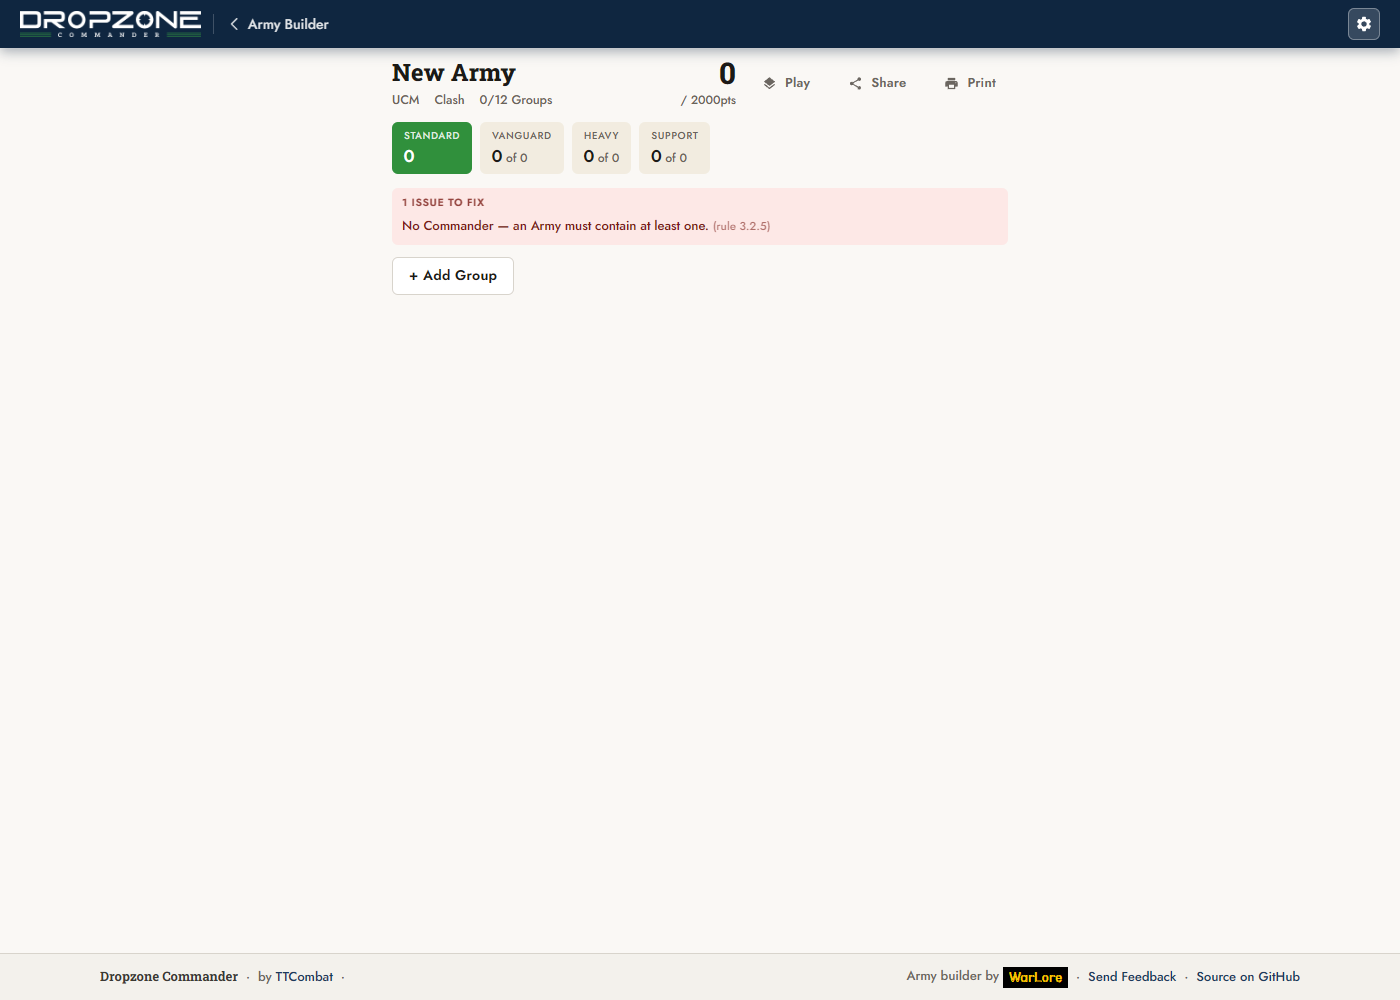
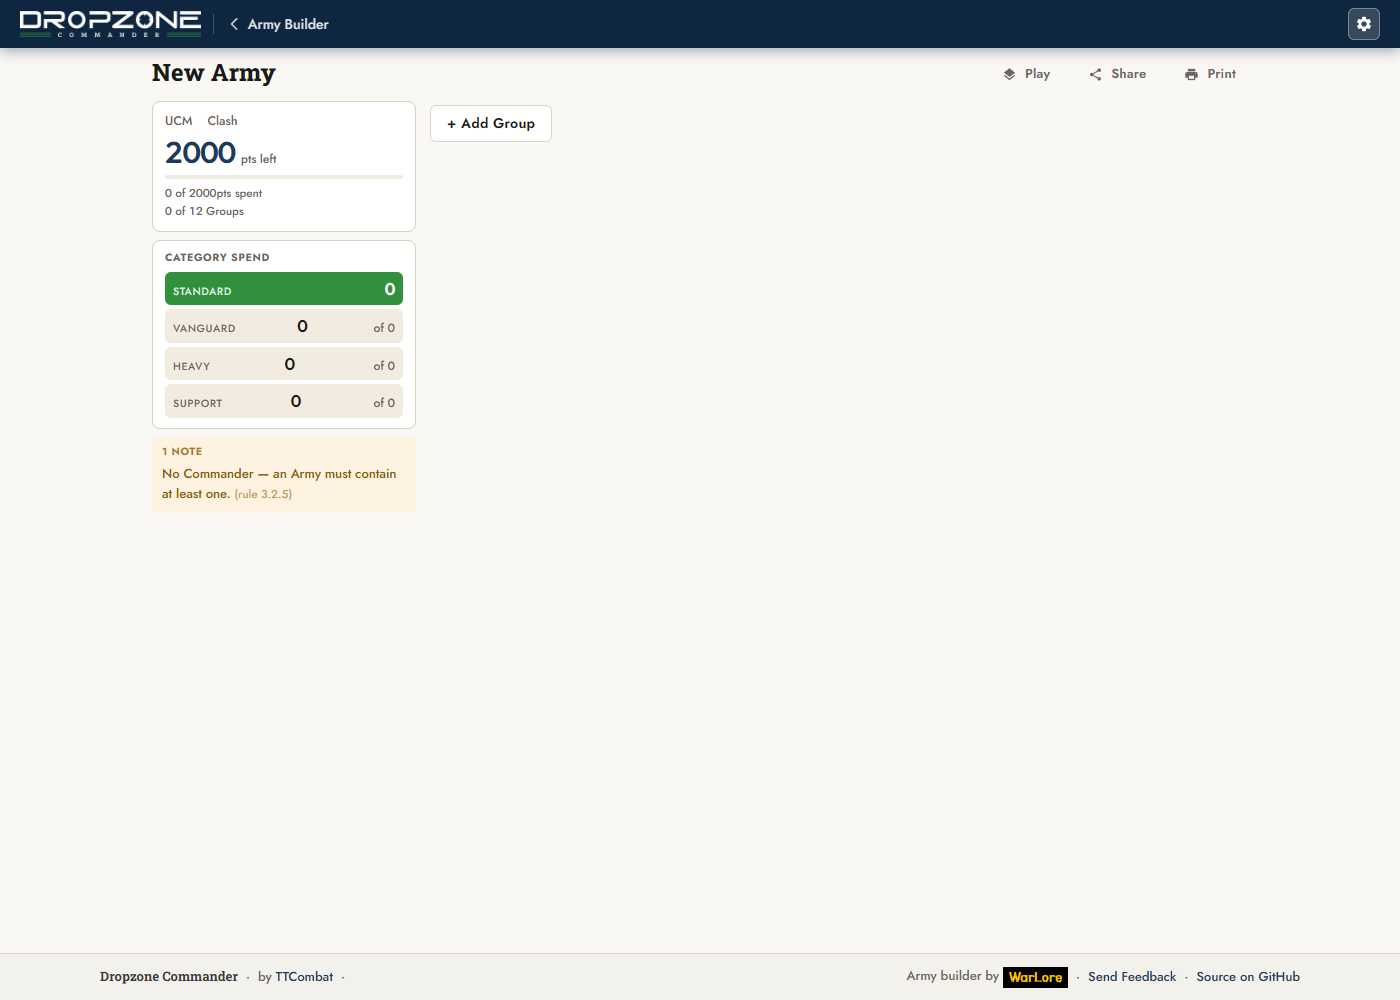
Put points and outstanding work in a left rail, and stop nagging
Desktop keeps panes (HANDOFF section 2.2) and this is the first of them. The
rail carries what you need while working -- how much you have left to spend,
the Group count, the category ratios, and what is outstanding -- so it stays
put instead of shoving the Groups down the page every time an alert appears or
clears. Dropfleet's own markup says the same thing at index.html:195: alerts
live on the rail so they are visible without scrolling the middle panel.

Points now read as what is LEFT, because that is the number you are working
against while adding Squads. What you have spent is the smaller line beneath.

And an army you are halfway through building is not a broken army. Some rules
are about what you HAVE built -- a Group over the quarter cap, a Rare taken
three times, a Transport that is not full -- and those are wrong the moment
they happen. Others are about what the FINISHED list must contain. "No
Commander" fired on your first Squad, before you had any chance to satisfy it
and with nothing actually wrong. It now sits in the notes while you can still
fix it by adding something, and becomes an issue only once the points are gone
and fixing it means taking something out. Legality is unchanged: the army is
still not announced as legal, the message just stops shouting.

Below 900px the rail stacks above the list, because mobile does not get panes.

The builder was capped at 640px, which was right for one column and squeezed a
Squad row into 340px next to a rail.

diff --git a/js/dzc-builder.js b/js/dzc-builder.js
@@ -194,7 +194,7 @@
     const size = window.DZC.gameSizeFor(a.pointsLimit);
     const maxG = size ? window.DZC.maxGroups(size, a.pointsLimit) : 0;
     const cap = window.DZC.maxGroupCost(a.pointsLimit);
-    const v = window.DZCArmy.validate(a);
+    const v = triage(window.DZCArmy.validate(a), a);
     const spend = window.DZCArmy.categorySpend(a);
     const std = spend.standard || 0;
     const playable = a.groups.some(g => g.squads.some(s => s.commander));
@@ -207,21 +207,19 @@
         <b>${val}</b><i>of ${std}</i></div>`;
     }).join('');
 
+    const left = Math.max(0, a.pointsLimit - cost);
+    const pct = a.pointsLimit ? Math.min(100, Math.round((cost / a.pointsLimit) * 100)) : 0;
+
+    /* Desktop gets a rail and a column; the rail carries everything you need
+     * while working — what you have left to spend, and what is outstanding —
+     * so it stays put instead of shoving the Groups down the page every time
+     * an alert appears or clears. Below 900px it stacks above the list.
+     * HANDOFF §2.2: desktop keeps panes, mobile does not. */
     root.innerHTML = `<div class="dzc-wrap dzc-builder" style="--acc:${accentOf(a.faction)}">
       <header class="dzc-b-head">
-        <div>
-          <h1 contenteditable="true" spellcheck="false" class="dzc-b-name"
-              onblur="DZCBuilder.rename(this.textContent)">${esc(a.name)}</h1>
-          <!-- No "Max per Group" here: every Group card already prints its own
-               cost against that cap, so repeating it is noise. -->
-          <p class="dzc-b-sub"><span>${esc((FACTIONS.find(f => f.id === a.faction) || {}).name)}</span>
-            <span>${size ? esc(size.label) : 'Below the 501pt minimum'}</span>
-            <span>${a.groups.length}/${maxG || '—'} Groups</span></p>
-        </div>
+        <h1 contenteditable="true" spellcheck="false" class="dzc-b-name"
+            onblur="DZCBuilder.rename(this.textContent)">${esc(a.name)}</h1>
         <div class="dzc-b-right">
-          <div class="dzc-b-pts ${cost > a.pointsLimit ? 'is-over' : ''}">
-            <b>${cost}</b><span>/ ${a.pointsLimit}pts</span>
-          </div>
           <!-- Play needs a Commander: CP per Round, hand size and the Initiative
                modifier all come from Commander Level (4.1). Offering it on an
                army that has none would open a mode that cannot run. Share and
@@ -239,18 +237,37 @@
         </div>
       </header>
 
-      <div class="dzc-ratios" title="Vanguard, Heavy and Support may each not exceed Standard spend (3.2)">
-        <div class="dzc-ratio is-std"><span>Standard</span><b>${std}</b></div>${ratio}
+      <div class="dzc-b-body">
+        <aside class="dzc-rail">
+          <div class="dzc-rail-card">
+            <p class="dzc-b-sub"><span>${esc((FACTIONS.find(f => f.id === a.faction) || {}).name)}</span>
+              <span>${size ? esc(size.label) : 'Below the 501pt minimum'}</span></p>
+            <div class="dzc-rail-pts ${cost > a.pointsLimit ? 'is-over' : ''}">
+              <b>${left}</b><span>pts left</span>
+            </div>
+            <div class="dzc-rail-track"><i style="width:${pct}%"></i></div>
+            <p class="dzc-rail-line">${cost} of ${a.pointsLimit}pts spent</p>
+            <p class="dzc-rail-line">${a.groups.length} of ${maxG || '—'} Groups</p>
+          </div>
+
+          <div class="dzc-rail-card">
+            <div class="dzc-rail-title">Category spend</div>
+            <div class="dzc-ratios" title="Vanguard, Heavy and Support may each not exceed Standard spend (3.2)">
+              <div class="dzc-ratio is-std"><span>Standard</span><b>${std}</b></div>${ratio}
+            </div>
+          </div>
+
+          ${alertList(v.errors, 'err', 'issue to fix', 'issues to fix')}
+          ${alertList(v.warnings, 'warn', 'note', 'notes')}
+          ${v.ok && a.groups.length ? `<p class="dzc-legal">${window.DZCIcon('check_circle', { size: 15 })}This army is legal.</p>` : ''}
+          ${shortfallHtml(a)}
+        </aside>
+
+        <div class="dzc-b-main">
+          ${a.groups.map(g => groupHtml(a, g)).join('')}
+          <button class="btn btn-outline dzc-add-group" type="button" onclick="DZCBuilder.addGroup()">+ Add Group</button>
+        </div>
       </div>
-
-      ${alertList(v.errors, 'err', 'issue to fix', 'issues to fix')}
-      ${alertList(v.warnings, 'warn', 'note', 'notes')}
-      ${!v.errors.length && a.groups.length ? `<p class="dzc-legal">${window.DZCIcon('check_circle', { size: 15 })}This army is legal.</p>` : ''}
-      ${shortfallHtml(a)}
-
-      ${a.groups.map(g => groupHtml(a, g)).join('')}
-
-      <button class="btn btn-outline dzc-add-group" type="button" onclick="DZCBuilder.addGroup()">+ Add Group</button>
     </div>`;
   }
 
@@ -394,6 +411,35 @@
       const on = w.variants || [];
       return names.every(n => on.indexOf(n) !== -1);
     });
+  }
+
+  /* An army you are halfway through building is not a broken army.
+   *
+   * Some rules are about what you HAVE built — a Group over the quarter cap, a
+   * Rare taken three times, a Transport that is not full. Those are wrong the
+   * moment they happen and say so.
+   *
+   * Others are about what the finished list must CONTAIN. "No Commander" is
+   * the one that bit: it fires on your first Squad, when you have not had a
+   * chance to satisfy it and nothing is actually wrong. Those stay in the
+   * notes while you can still fix them by adding something, and only become
+   * issues once the points are gone and fixing means taking something out.
+   *
+   * validate() keeps reporting everything; this only decides where it goes. */
+  const COMPLETENESS = /^3\.2\.5$/;
+
+  function triage(v, army) {
+    const full = window.DZCArmy.armyCost(army) >= army.pointsLimit;
+    if (full) return { errors: v.errors, warnings: v.warnings, ok: !v.errors.length };
+    const errors = [], deferred = [];
+    v.errors.forEach(e => (COMPLETENESS.test(e.rule) ? deferred : errors).push(e));
+    return {
+      errors,
+      warnings: deferred.concat(v.warnings),
+      // Legality is unchanged — a deferred requirement is still unmet, so the
+      // army is not announced as legal just because we moved the message.
+      ok: !v.errors.length
+    };
   }
 
   /* Two severities, and they are not the same thing: an "issue to fix" means

diff --git a/css/dzc.css b/css/dzc.css
@@ -163,7 +163,7 @@
 .dzc-army-bad { margin: 0; font-size: 12px; font-weight: 600; color: #b3261e; }
 
 /* ═══ Builder ═══ */
-.dzc-b-head { display: flex; align-items: flex-start; justify-content: space-between; gap: 16px; flex-wrap: wrap; margin-bottom: 12px; }
+.dzc-b-head { display: flex; align-items: center; justify-content: space-between; gap: 16px; flex-wrap: wrap; margin-bottom: 10px; }
 .dzc-b-name { font: 800 24px/1.2 var(--font-display, 'Roboto Slab', serif); margin: 0 0 4px; overflow-wrap: anywhere; }
 .dzc-b-name:focus-visible { outline: 2px solid var(--acc); outline-offset: 3px; }
 .dzc-b-sub { margin: 0; font-size: 12.5px; color: var(--ink-2, #6b6459); }
@@ -184,6 +184,51 @@
 .dzc-ratio.is-std { background: var(--acc); color: #fff; }
 .dzc-ratio.is-std span, .dzc-ratio.is-std i { color: rgba(255,255,255,.85); }
 .dzc-ratio.is-over { background: #fde8e6; color: #7a1c15; }
+
+/* ── builder: rail + column ──
+   Desktop keeps panes, mobile does not (HANDOFF §2.2). The rail holds what you
+   need while working — points left and what is outstanding — so it stays put
+   rather than shoving the Groups down the page each time an alert appears. */
+.dzc-b-body { display: grid; grid-template-columns: 264px minmax(0, 1fr); gap: 14px; align-items: start; }
+.dzc-rail { position: sticky; top: 12px; display: flex; flex-direction: column; gap: 8px; }
+.dzc-b-main { min-width: 0; }
+.dzc-rail-card {
+  padding: 10px 12px; border-radius: 8px;
+  border: 1px solid var(--line, #d8d0c0); background: var(--surface-2, #fff);
+}
+.dzc-rail-title {
+  margin-bottom: 6px;
+  font: 700 10.5px/1.4 var(--font-condensed, 'Jost', sans-serif);
+  text-transform: uppercase; letter-spacing: .06em; color: var(--ink-2, #6b6459);
+}
+.dzc-rail-pts { display: flex; align-items: baseline; gap: 5px; margin-top: 6px; }
+.dzc-rail-pts b {
+  font-family: var(--font-numeric, 'Outfit', sans-serif);
+  font-size: 30px; font-weight: 600; line-height: 1;
+  font-variant-numeric: tabular-nums lining-nums;
+  color: var(--acc-ink, #1b3a5c);
+}
+.dzc-rail-pts span { font-size: 12px; color: var(--ink-2, #6b6459); }
+.dzc-rail-pts.is-over b { color: #a3231a; }
+.dzc-rail-track {
+  height: 4px; margin: 7px 0 6px; border-radius: 2px;
+  background: var(--surface-3, #f2ece0); overflow: hidden;
+}
+.dzc-rail-track i { display: block; height: 100%; background: var(--acc); }
+.dzc-rail-pts.is-over ~ .dzc-rail-track i { background: #a3231a; }
+.dzc-rail-line {
+  margin: 1px 0; font-size: 11.5px; color: var(--ink-2, #6b6459);
+  font-variant-numeric: tabular-nums;
+}
+.dzc-rail .dzc-ratios { flex-direction: column; gap: 4px; margin: 0; }
+.dzc-rail .dzc-ratio { display: flex; align-items: baseline; justify-content: space-between; gap: 8px; padding: 4px 8px; }
+.dzc-rail .dzc-ratio span { display: inline; font-size: 10.5px; }
+
+@media (max-width: 900px) {
+  .dzc-b-body { grid-template-columns: 1fr; }
+  .dzc-rail { position: static; }
+  .dzc-rail .dzc-ratios { flex-direction: row; flex-wrap: wrap; }
+}
 
 .dzc-issues { margin: 0 0 8px; padding: 8px 10px; border-radius: 6px; font-size: 13px; }
 .dzc-issues-head {
@@ -425,7 +470,9 @@
 
 /* The builder column is capped so a squad row never has to stretch across a
    full-width desktop viewport. */
-.dzc-builder { max-width: 640px; }
+/* 640px was right when the builder was one column. With a rail beside it the
+   Groups need their own width, or a Squad row is squeezed into 340px. */
+.dzc-builder { max-width: 1120px; }
 
 @media (max-width: 640px) {
   .dzc-b-head { gap: 8px; }
